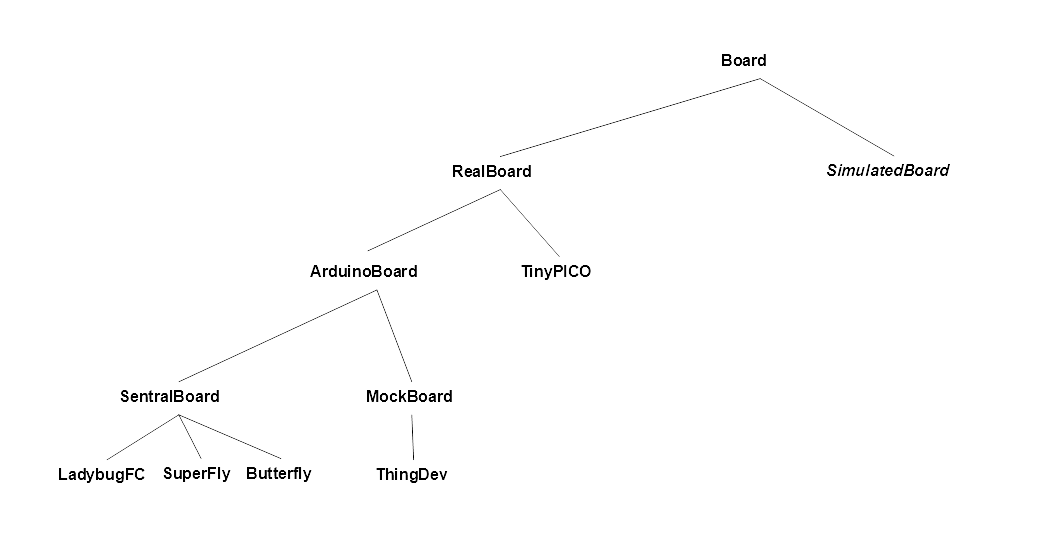
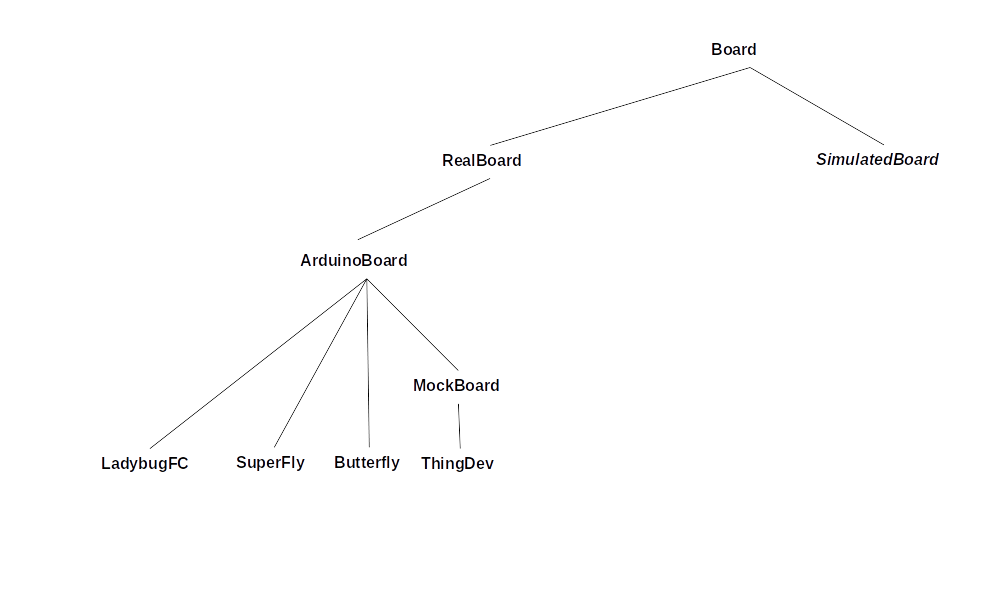
=Cleanup

diff --git a/README.md b/README.md
@@ -234,5 +234,5 @@ class used in [MulticopterSim](https://github.com/simondlevy/MulticopterSim).
 * <b>MockBoard</b>: Parent class for Arduino development boards; enables algorithm, sensor, and receiver prototyping
 
 <p align="center"> 
-<img src="extras/media/boards.png" width=800>
+<img src="extras/media/boards2.png" width=800>
 </p>
